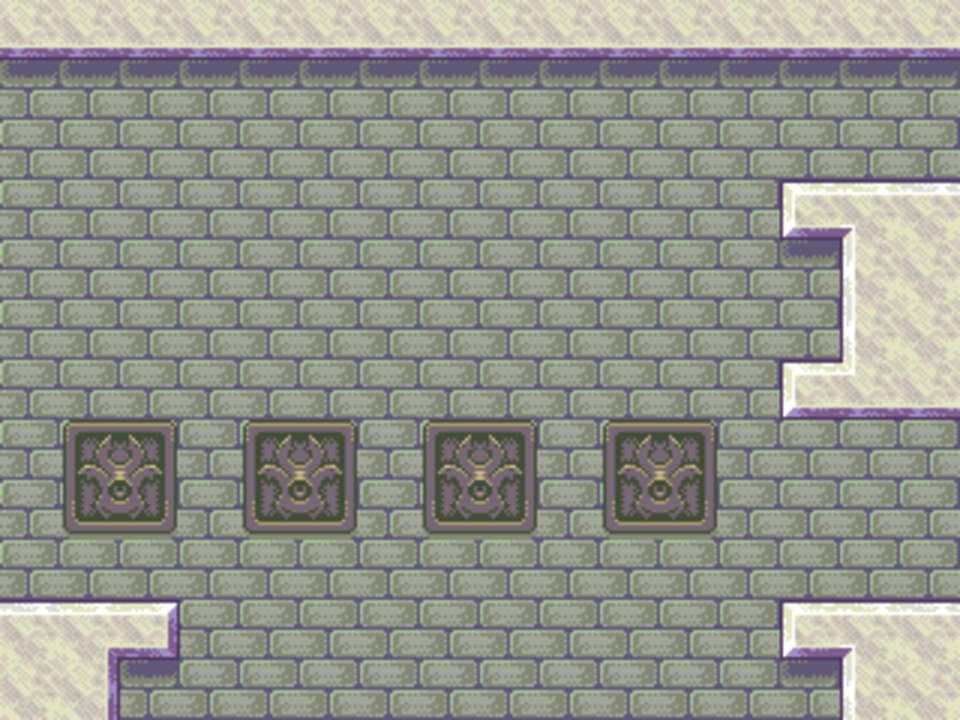
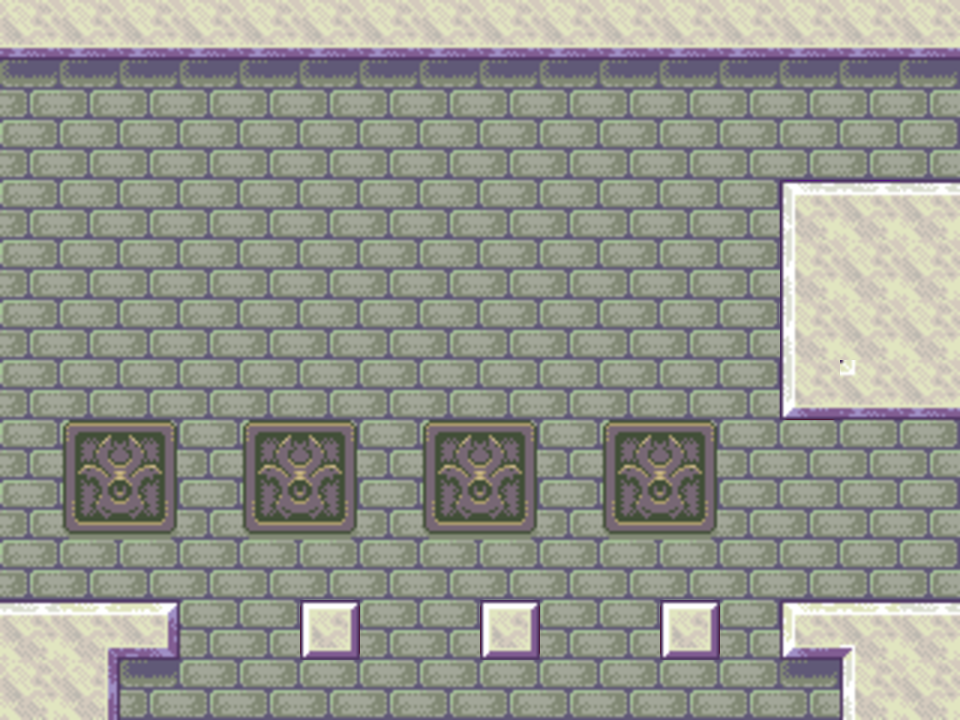
地圖修改

diff --git a/src/App.cpp b/src/App.cpp
@@ -50,16 +50,16 @@ void App::Start() {
     m_bgm = std::make_shared<Util::BGM>(RESOURCE_DIR"/bgm/Main_01.mp3");
     m_bgm->SetVolume(5);
     m_bgm->Play();
-    generate_enemy.setpath("enemy1.txt");
+    generate_enemy.setpath("enemy17.txt");
     m_hero = std::make_shared<hero>(std::vector<std::string>{RESOURCE_DIR"/hero/stay.png",RESOURCE_DIR"/hero/Rrun.png",RESOURCE_DIR"/hero/Rrun.png"});
-    m_hero->SetPosition({0,-30});
+    m_hero->SetPosition({-394,90});
     m_hero->hero_state = "on_ground" ;
     m_Root.AddChild(m_hero);
     m_hero->SetZIndex(80);
-    phy.set_data("map1.txt");
-    m_hero->map = "map1.txt" ;
-    m_map = std::make_shared<map>("p1.png","map1.txt");
-    m_map->map_number = 1 ;
+    phy.set_data("map17.txt");
+    m_hero->map = "map17.txt" ;
+    m_map = std::make_shared<map>("p17.png","map17.txt");
+    m_map->map_number = 17 ;
     m_Root.AddChild(m_map);
     m_CurrentState = State::UPDATE;
     m_tool = std::make_shared<heroattack>(std::vector<std::string>{RESOURCE_DIR"/attack_tool/sword1.png",RESOURCE_DIR"/attack_tool/sword2.png",RESOURCE_DIR"/attack_tool/sword3.png",RESOURCE_DIR"/attack_tool/sword4.png",RESOURCE_DIR"/attack_tool/sword5.png"});
@@ -128,11 +128,18 @@ void App::Update() {
     if (Util::Input::IsKeyDown(Util::Keycode::ESCAPE)) {
         m_CurrentState = State::END ;
     }
-
     if (m_hero->HP <= 0 && m_hero->over_trans) {
         m_CurrentState = State::GameOver ;  // 退出更新循环，游戏结束
     }
     setheart_grid(m_hero->HP);
+    if(m_hero->enter_boss){
+        m_hero->enter_boss = false ;
+        m_hero->SetPosition({-150,-90}) ;
+        phy.set_data("map100.txt");
+        m_hero->map = "map100.txt" ;
+        m_map->map_number = 100 ;
+        m_map->SetImage("p100.png" ) ;
+    }
     m_Root.Update() ;
 
     //m_map.SetImage("p1.png") ;
@@ -163,6 +170,8 @@ void App::GameOver() {
         m_CurrentState = State::END ;
     }
 
+}
+void App::Boss() {
 
 }
 void App::End() { // NOLINT(this method will mutate members in the future)

diff --git a/src/Prop.cpp b/src/Prop.cpp
@@ -36,7 +36,6 @@ Prop::Prop() {
 
 void Prop::attack(std::shared_ptr<hero> m_hero) {
     if(HP == 1){
-        // 在打第二格方塊的時候似乎會越界刪除錯誤index的值
         clsglobal::bricks_number[number] = 0 ;
         SetPosition({GetPosition()[0],GetPosition()[1]+30});
         HP = 1000 ;
@@ -44,8 +43,17 @@ void Prop::attack(std::shared_ptr<hero> m_hero) {
             SetImage({RESOURCE_DIR"/Prop/Prop_hp.png"},10,false);
 
         }
-        if(treasure == "key"){
+        if(treasure == "key1"){
             SetImage({RESOURCE_DIR"/Prop/Prop_key.png"},10,false);
+        }
+        if(treasure == "key2"){
+            SetImage({RESOURCE_DIR"/Prop/Prop_key2.png"},10,false);
+        }
+        if(treasure == "key3"){
+            SetImage({RESOURCE_DIR"/Prop/Prop_key3.png"},10,false);
+        }
+        if(treasure == "boots"){
+            SetImage({RESOURCE_DIR"/Prop/Prob_boots.png"},10,false);
         }
     }
     if(HP > 500 ){
@@ -65,7 +73,16 @@ void Prop::attack(std::shared_ptr<hero> m_hero) {
                 }
             }
             if(treasure == "key"){
-
+                m_hero->key1 = true ;
+            }
+            if(treasure == "key2") {
+                m_hero->key2 = true ;
+            }
+            if(treasure == "key3"){
+                m_hero->key3 = true ;
+            }
+            if(treasure == "boots"){
+                m_hero->two_jump_shoes = true ;
             }
             m_Visible = false ;
             SetPosition({-1000,-1000});

diff --git a/src/physics.cpp b/src/physics.cpp
@@ -41,6 +41,7 @@ void physics::collision(int index,float &x , float Lx ,  float yy , float &y){
     }
 }
 void  physics::in_sky_down() {
+
     for(int i = 0 ; i < clsglobal::bricks_x.size();i++){
         data[clsglobal::bricks_x[i]][clsglobal::bricks_y[i]] = clsglobal::bricks_number[i] ;
     }
@@ -86,6 +87,13 @@ bool physics::climb_ladder(float x , float y){
         return true ;
     }
     return false ;
+}
+bool physics::enter_boss(float x, float y) {
+    if(data[int(x)][int(y-1)] == -5){
+        return  true ;
+    }else{
+        return false ;
+    }
 }
 bool physics::judge_onground(float x, float y,float topy) {
     if(data[int(x)][int(y)] == 0 && data[int(x)][int(topy)] == 0){

diff --git a/src/hero.cpp b/src/hero.cpp
@@ -4,6 +4,7 @@
 #include "physics.hpp"
 #include "hero.hpp"
 void hero::run() {
+
     if(hero_state == "on_ground"){
         two_jump = true;
     }
@@ -100,6 +101,11 @@ void hero::run() {
         if(hero_state == "climb_ladder" && !physics.climb_ladder(x,y) ){
             hero_state = "sky_down" ;
         }
+    }
+    if (Util::Input::IsKeyPressed(Util::Keycode::E)) {
+       if(physics.enter_boss(x,y)){
+           enter_boss = true ;
+       }
     }
     if (Util::Input::IsKeyPressed(Util::Keycode::W)) {
         physics.set_data(map);

diff --git a/src/heroattack.cpp b/src/heroattack.cpp
@@ -30,7 +30,7 @@ void heroattack::attack(std::string forward,std::vector<std::shared_ptr<enemy>> 
             already_attack = true;
             for(int i = all_enemy.size()-1 ; i >=0 ; i--){
                 float x1,y1,x2,y2,X,Y ;
-                x1 = all_enemy[i]->GetPosition()[0] + 10;
+                x1 = all_enemy[i]->GetPosition()[0] ;
                 y1 = all_enemy[i]->GetPosition()[1] ;
                 x2 = this->GetPosition()[0] ;
                 y2 = this->GetPosition()[1] ;

diff --git a/include/physics.hpp b/include/physics.hpp
@@ -9,6 +9,7 @@
 #include "Util/Input.hpp"
 #include "Util/Keycode.hpp"
 #include "clsglobal.hpp"
+
 class physics {
 public:
 
@@ -17,6 +18,7 @@ public:
     void collision(int index, float &x , float Lx ,  float yy , float &y) ;
     bool climb_ladder(float x , float y) ;
     bool judge_onground(float x , float y,float topy) ;
+    bool enter_boss(float x , float y ) ;
     std::string get_state(int index);
     std::vector<std::string> state ;
     std::vector<glm::vec2> object_position ;

diff --git a/include/hero.hpp b/include/hero.hpp
@@ -32,12 +32,12 @@ public:
     std::string forward ;
 
     int HP = 20 ;
-
     bool nocontrol = false;
     bool Invincible = false,over_trans = false  ;
-
+    bool key1= false ,key2= false ,key3 = false ;
+    bool two_jump_shoes = true ,enter_boss = false  ;
 private:
-    bool two_jump_shoes = true , two_jump = true ;
+    bool two_jump = true ;
     std::shared_ptr<Util::SFX> jump_sfx,attack_sfx;
     std::shared_ptr<Util::SFX> m_bgm;
     float move_ytotal ,move_xtotal ;

diff --git a/src/main.cpp b/src/main.cpp
@@ -61,10 +61,15 @@ int main(int, char**) {
                 app = std::make_shared<App>();
                 app->Start();
                 break;
+            case App::State::BOSS:
+                app->Boss();
+                break ;
             case App::State::END:
                 app->End();
                 context->SetExit(true);
                 break;
+
+
         }
         context->Update();
     }

diff --git a/include/App.hpp b/include/App.hpp
@@ -19,6 +19,7 @@ public:
         START,
         TRANS,
         UPDATE,
+        BOSS,
         END,
     };
     void setheart_grid(int hero_hp) ;
@@ -26,7 +27,7 @@ public:
 
 
     State GetCurrentState() const { return m_CurrentState; }
-
+    void  Boss();
     void GameOver();
     void gamestart();
     void Start();

diff --git a/include/clsglobal.hpp b/include/clsglobal.hpp
@@ -9,6 +9,7 @@
 class clsglobal {
 public:
     static std::vector<int> bricks_x,bricks_y,bricks_number;
+
 };
 
 
